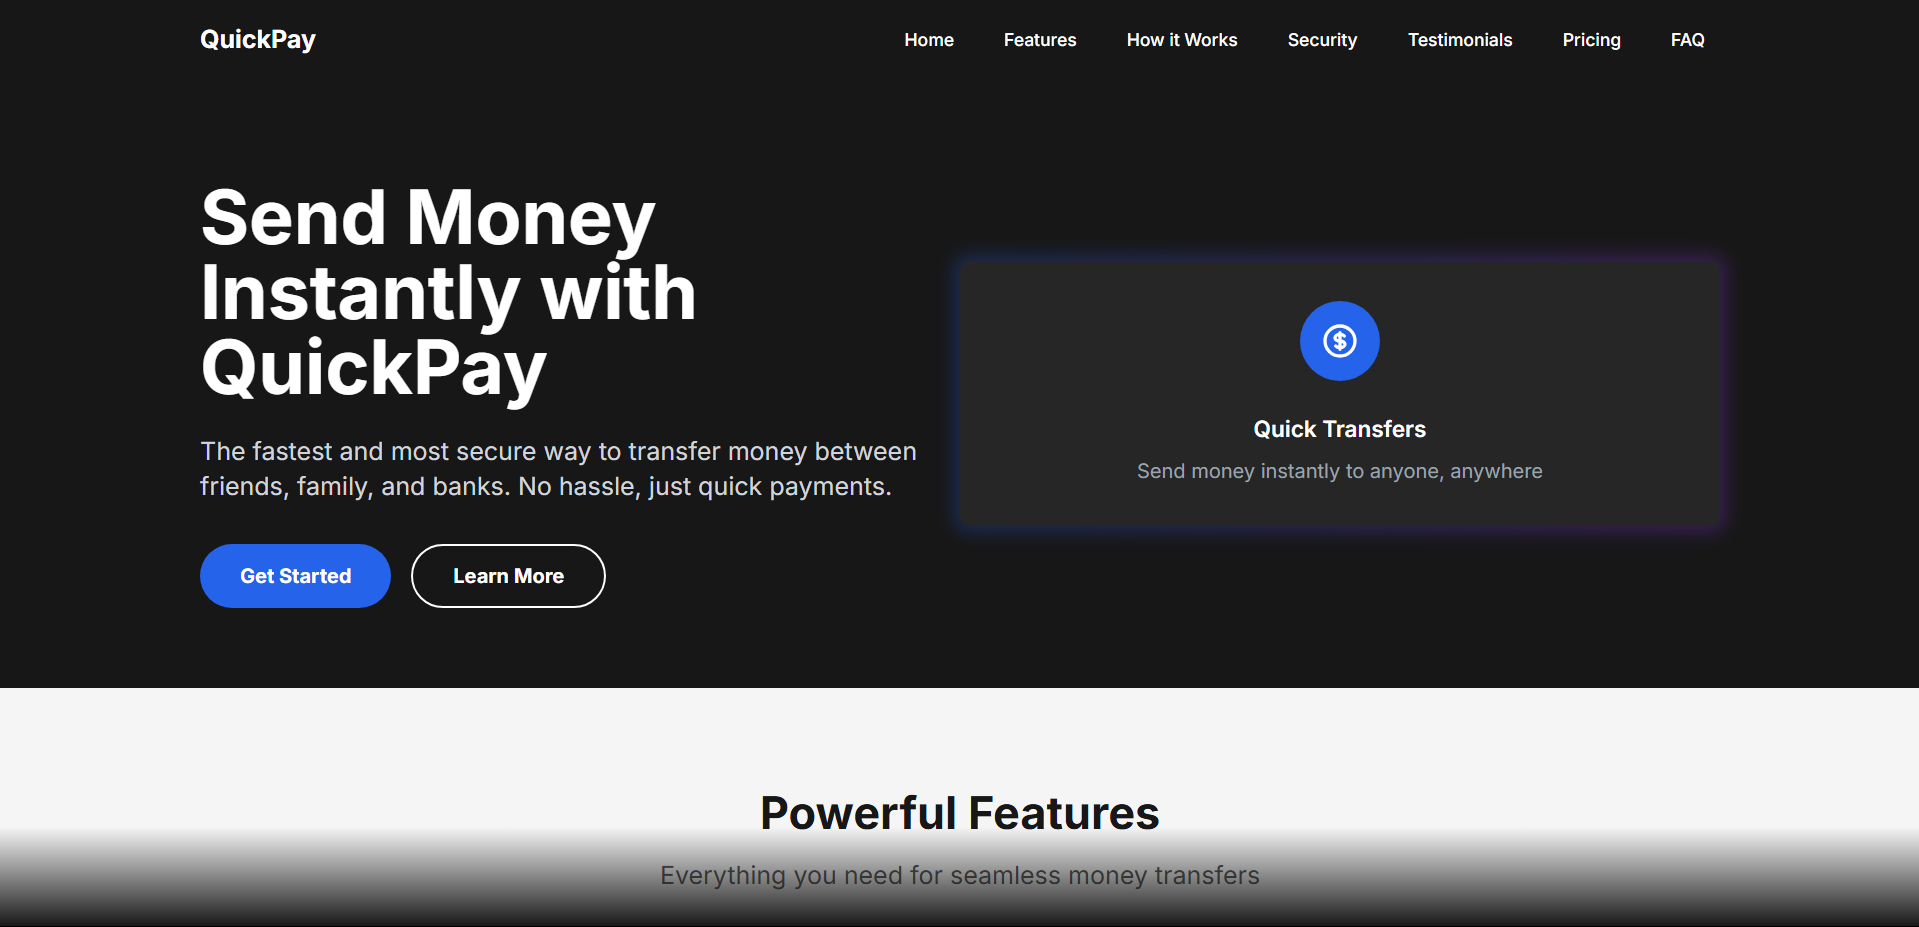
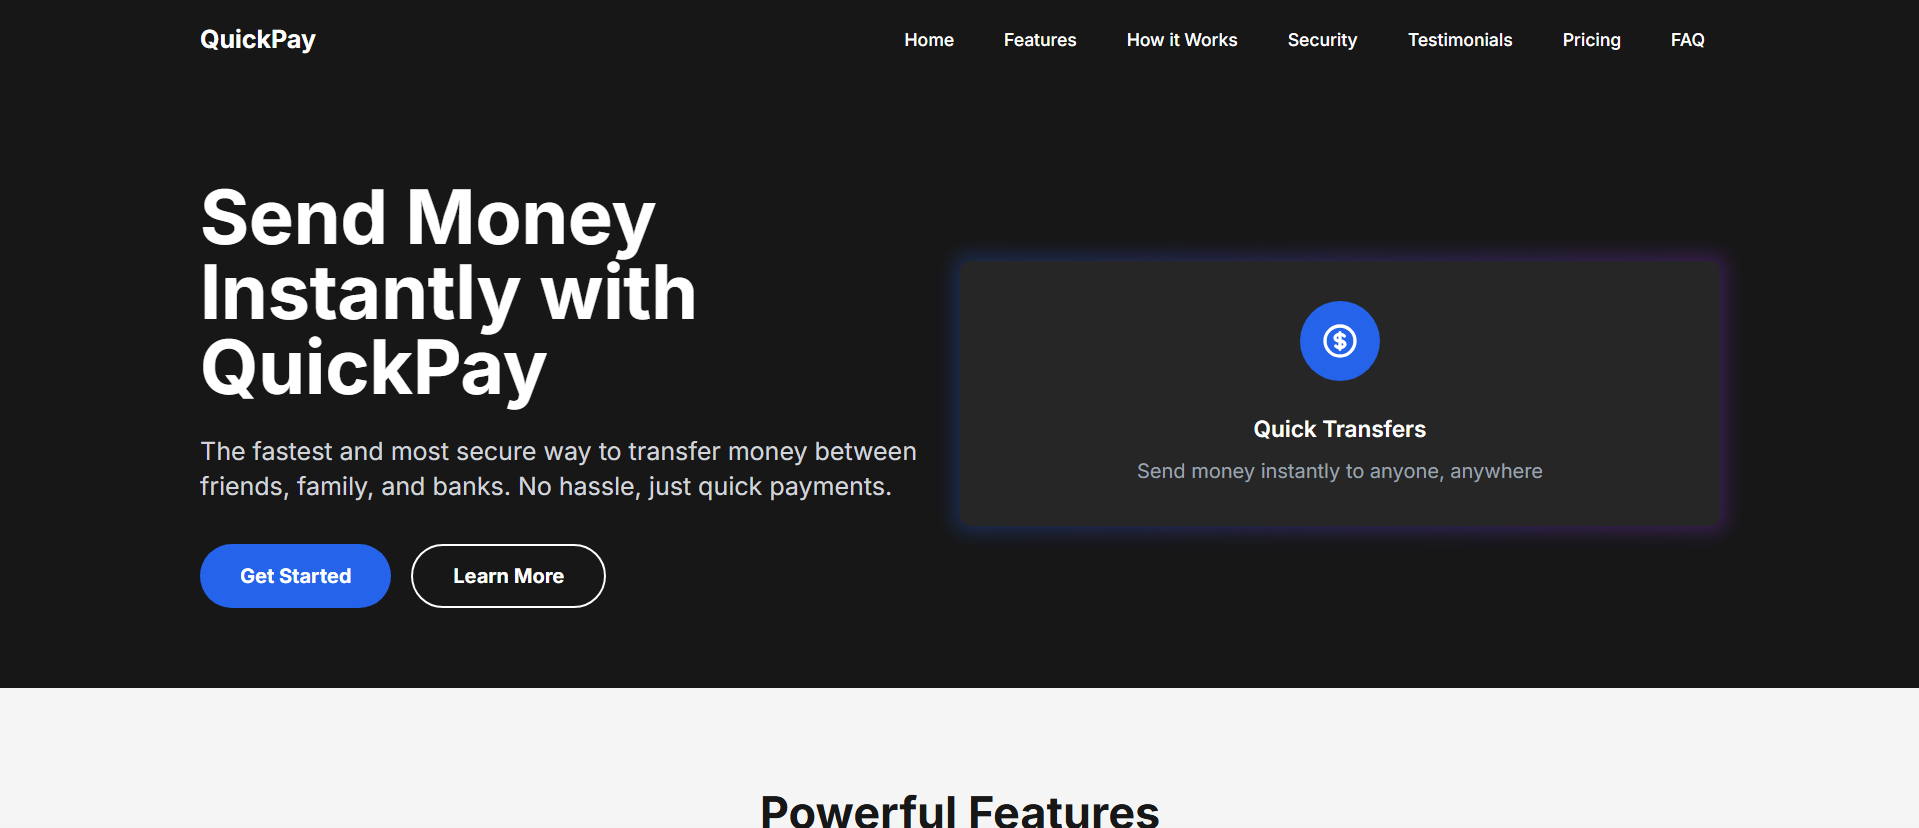
improved light mode

diff --git a/components/global/projectCard.tsx b/components/global/projectCard.tsx
@@ -15,20 +15,20 @@ interface projectCardProps {
 export const ProjectCard = ({ title, desc, technologies, previewLink, githubLink, imgLink,role }: projectCardProps) => {
     const router = useRouter()
     return (
-        <div className="flex flex-col md:mx-10  bg-[#141414]   rounded-lg  " style={{}}>
+        <div className="flex flex-col md:mx-10  dark:bg-[#141414] bg-slate-50 shadow-lg hover:scale-105 transition-transform  rounded-lg  ">
             <div className="relative w-full h-48 md:h-72">
                 <Image src={imgLink} fill alt="" className="rounded-t-md " />
             </div>
             <div className="p-4 md:p-5 flex flex-col gap-2 ">
-                <h1 className="text-zinc-100  md:text-xl">{title}</h1>
-                <p className="dark:text-zinc-300 text-sm  md:text-md  ">{desc}</p>
-                <p className="text-blue-400 text-md"><span className="dark:text-zinc-100 text-md">Role: </span>{role}</p>
+                <h1 className="dark:text-zinc-100 text-zinc-950  md:text-xl">{title}</h1>
+                <p className="dark:text-zinc-300 text-zinc-800 text-sm  md:text-md  ">{desc}</p>
+                <p className="dark:text-blue-400 text-zinc-700 text-md"><span className="dark:text-zinc-100 text-md">Role: </span>{role}</p>
                 <p className="text-blue-500 font-light text-sm md:text-md ">{technologies}</p>
                 <div className="flex justify-center gap-10 mt-2">
-                    {previewLink && <Button className="border-2 border-white " variant="secondary" onClick={() => {
+                    {previewLink && <Button className="border-2 dark:border-white border-black " variant="secondary" onClick={() => {
                         router.push(previewLink || "")
                     }}>Preview</Button>}
-                    {githubLink && (<Button className="" variant={"secondary"}
+                    {githubLink && (<Button className="" variant={"default"}
                         onClick={() => {
                             router.push(githubLink || "")
                         }}

diff --git a/components/global/socialIcons.tsx b/components/global/socialIcons.tsx
@@ -3,16 +3,16 @@ import Image from "next/image";
 export const SocialIcons = () => {
     return <div className="flex gap-4 items-center">
         <Link href={"https://www.github.com/udayempire"} target="_blank" >
-            <Image src="/icons/github2.svg" width="30" height="40" alt="github" className="hover:scale-125 transition-transform" />
+            <Image src="/icons/github2.svg" width="30" height="40" alt="github" className="hover:scale-125 transition-transform bg-black rounded-full" />
         </Link>
         <Link href={"https://www.linkedin.com/in/uday-kumar-empire07/"} target="_blank"   >
-            <Image src="/icons/linkedin.svg" width="30" height="40" alt="linked" className="hover:scale-150 transition-transform" />
+            <Image src="/icons/linkedin.svg" width="30" height="40" alt="linked" className="hover:scale-150 transition-transform bg-black rounded-full" />
         </Link>
         <Link href={"https://x.com/UdayEmpire003"} target="_blank" >
-            <Image src="/icons/X.svg" width="30" height="40" alt="X" className="hover:scale-[1.8]  transition-transform" />
+            <Image src="/icons/X.svg" width="30" height="40" alt="X" className="hover:scale-[1.8]  transition-transform bg-black rounded-full" />
         </Link>
         <Link href={"https://www.instagram.com/udayempire07/"} target="_blank" >
-            <Image src="/icons/instagram.svg" width="30" height="40" alt="instagram" className="hover:scale-[1.7]  transition-transform" />
+            <Image src="/icons/instagram.svg" width="30" height="40" alt="instagram" className="hover:scale-[1.7]  transition-transform bg-black rounded-full -p-4" />
         </Link>
     </div>
 }

diff --git a/components/global/Footer.tsx b/components/global/Footer.tsx
@@ -1,6 +1,7 @@
 import { SocialIcons } from "./socialIcons";
 export const Footer = () => {
-    return <div className="w-full  p-5 px-8 border-t mt-10  md:justify-between items-center">
+    return (
+    <footer className="w-full  p-5 px-8 border-t mt-10  md:justify-between items-center">
         <div className=" md:flex items-center md:items-center justify-between gap-4">
             <div className="flex gap-4 items-center justify-center mb-4 md:mb-0">
                 <SocialIcons />
@@ -8,17 +9,18 @@ export const Footer = () => {
             {/* desktop */}
             <div className=" hidden md:block font-light ">© Made by Uday 2025</div>
             <div className="hidden md:flex items-center gap-3">
-                <div className="bg-green-500 rounded-full  w-2 h-2" ></div>
-                <p className=" font-light  md:text-md">Last Updated 13/01/25</p>
+                <div className="bg-green-500 rounded-full   w-2 h-2" ></div>
+                <p className=" font-light  md:text-md">Last Updated 14/01/25</p>
             </div>
             {/* phone */}
             <div className="md:hidden flex gap-3 justify-between items-center">
                 <div className=" font-light text-xs">© Made by Uday 2025</div>
                 <div className=" flex items-center gap-3">
                     <div className="bg-green-500 rounded-full  w-2 h-2" ></div>
-                    <p className=" font-light text-xs">Last Updated 13/01/25</p>
+                    <p className=" font-light text-xs">Last Updated 14/01/25</p>
                 </div>
             </div>
         </div>
-    </div>
+    </footer>
+    )
 }

diff --git a/components/home/techAnimation.tsx b/components/home/techAnimation.tsx
@@ -95,8 +95,8 @@ const ReviewCard = ({
 
 export function TechAnimation() {
   return (
-    <div className="relative flex h-[200px] w-full flex-col items-center justify-center overflow-hidden rounded-lg  ">
-      <Marquee pauseOnHover className="[--duration:20s]">
+    <div className="relative flex h-[200px] w-full flex-col round items-center justify-center overflow-hidden rounded-lg  ">
+      <Marquee pauseOnHover className="[--duration:20s rounded-full]">
         {firstRow.map((review,index) => (
           <ReviewCard key={index} {...review} />
         ))}
@@ -106,8 +106,8 @@ export function TechAnimation() {
           <ReviewCard key={index} {...review} />
         ))}
       </Marquee>
-      <div className="pointer-events-none absolute inset-y-0 left-0 w-1/3 bg-gradient-to-r from-white dark:from-background"></div>
-      <div className="pointer-events-none absolute inset-y-0 right-0 w-1/3 bg-gradient-to-l from-white dark:from-background"></div>
+      <div className="pointer-events-none absolute inset-y-0 left-0 w-1/5 bg-gradient-to-r from-white dark:from-background"></div>
+      <div className="pointer-events-none absolute inset-y-0 right-0 w-1/5 bg-gradient-to-l from-white dark:from-background"></div>
     </div>
   );
 }

diff --git a/components/home/bioSection.tsx b/components/home/bioSection.tsx
@@ -12,12 +12,12 @@ export const BioSection = () => {
     <section className="grid grid-cols-1 md:grid-cols-2 gap-2 md:gap-20 justify-items-center items-center">
       {/* Left Section */}
       <div className="flex flex-col gap-4">
-        <h1 className={`${ubuntu.className} mt-4 text-4xl md:text-5xl h-32  md:h-28`}>I&apos;m a <WordRotate words={[" Developer", " Tech Enthusiast", " Full Stack Developer"]} />
+        <h1 className={`${ubuntu.className} mt-4 text-4xl md:text-5xl h-32  md:h-28 font-bold `}>I&apos;m a <WordRotate className="font-bold" words={[" Developer", " Tech Enthusiast", " Full Stack Developer"]} />
         </h1>
         <div className="mt-5 md:mt-9">
           <SocialIcons />
         </div>
-        <div className={`${geistVF.className} dark:text-zinc-400 text-md md:text-lg text-[rgba(161,161,170)]  leading-7`}>
+        <div className={`${geistVF.className} dark:text-zinc-400 text-zinc-600 text-md md:text-lg  leading-7`}>
           <p className="mt-2 mb-6">
             I&apos;m a self-taught programmer specializing in Full Stack Development. I&apos;m working on numerous projects,
             actively participating in hackathons, and trying my hand at open-source contributions. Currently, I serve

diff --git a/components/ui/button.tsx b/components/ui/button.tsx
@@ -16,7 +16,7 @@ const buttonVariants = cva(
         outline:
           "border border-input bg-background dark:bg-white dark:text-black  shadow-sm hover:bg-accent hover:text-accent-foreground",
         secondary:
-          "bg-secondary text-secondary-foreground shadow-sm hover:bg-secondary/80",
+          "dark:bg-secondary dark:text-secondary-foreground  shadow-sm hover:bg-secondary/80",
         ghost: "hover:bg-accent hover:text-accent-foreground",
         link: "text-primary underline-offset-4 hover:underline",
         themeicon:"border border-input bg-background shadow-sm hover:bg-accent hover:text-accent-foreground"

diff --git a/components/ui/marquee.tsx b/components/ui/marquee.tsx
@@ -58,7 +58,7 @@ export default function Marquee({
         .map((_, i) => (
           <div
             key={i}
-            className={cn("flex shrink-0 justify-around [gap:var(--gap)]", {
+            className={cn("flex shrink-0 justify-around  [gap:var(--gap)]", {
               "animate-marquee flex-row": !vertical,
               "animate-marquee-vertical flex-col": vertical,
               "group-hover:[animation-play-state:paused]": pauseOnHover,

diff --git a/app/page.tsx b/app/page.tsx
@@ -9,7 +9,7 @@ import  ShimmerButton  from "@/components/ui/shimmer-button";
 
 export default function Home() {
   return (
-    <div className="w-10/12 h-full mx-auto flex flex-col items-center mt-16 xl:ml-48 ">
+    <div className=" w-10/12 h-full mx-auto flex flex-col items-center mt-16 xl:ml-48 ">
       <BioSection />
       <Technologies />
       <Heading className=" text-left  w-full mt-10" text="My Top Projects" />

diff --git a/app/layout.tsx b/app/layout.tsx
@@ -24,7 +24,7 @@ export default function RootLayout({
 }>) {
   return (
     <html lang="en">
-      <body className={`${geistSans.variable} ${geistVF.className} dark:bg-black  antialiased`}>
+      <body className={`${geistSans.variable} ${geistVF.className} dark:bg-black bg-white  antialiased`}>
         <ThemeProvider
           attribute="class"
           defaultTheme="system"
